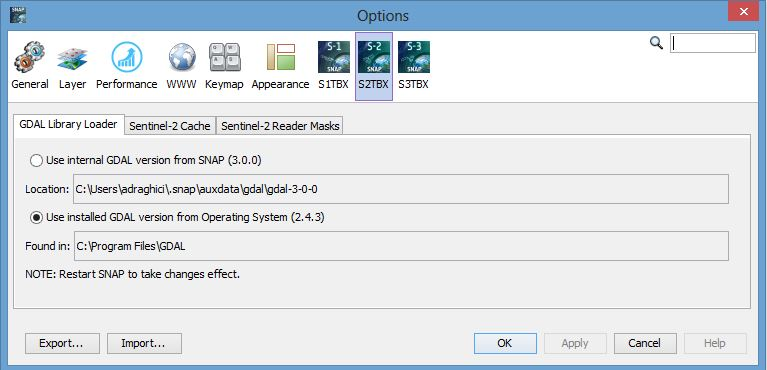
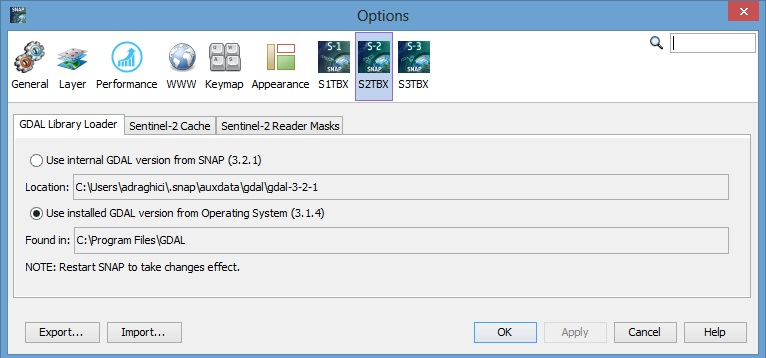
SIITBX-437: Update help pages.

Changed region(s): [[0.0, 0.0, 1.0, 1.0], [0.7206, 0.9218, 0.7807, 0.9525]]

diff --git a/s2tbx-s2msi-reader-ui/src/main/resources/org/esa/s2tbx/dataio/s2/preferences/ui/msi/docs/s2tbx/S2TBXOptions.html b/s2tbx-s2msi-reader-ui/src/main/resources/org/esa/s2tbx/dataio/s2/preferences/ui/msi/docs/s2tbx/S2TBXOptions.html
@@ -37,7 +37,7 @@
 <h4>GDAL Library Loader configuration</h4>
 
 <p>
-    It is possible to configure the GDAL library loader to load the installed GDAL distribution from the operating system or the internal GDAL distribution within SNAP (version 3.0.0).
+    It is possible to configure the GDAL library loader to load the installed GDAL distribution from the operating system or the internal GDAL distribution within SNAP (version 3.2.1).
 </p>
 
 <img src="../images/gdal_loader_config.jpg" border=0/>
@@ -50,13 +50,13 @@
 <h5>Compatible versions</h5>
 
 <p><br/>
-    - Windows x86 (32 bit): from GDAL 2.1.X to GDAL 3.0.X
+    - Windows x86 (32 bit): from GDAL 2.1.X to GDAL 3.2.X
     <br/>
-    - Windows x64 (64 bit): from GDAL 2.1.X to GDAL 3.0.X
+    - Windows x64 (64 bit): from GDAL 2.1.X to GDAL 3.2.X
     <br/>
-    - Linux x64 (64 bit): from GDAL 2.0.X to GDAL 3.0.X
+    - Linux x64 (64 bit): from GDAL 2.0.X to GDAL 3.2.X
     <br/>
-    - MacOSX (64 bit): from GDAL 2.0.X to GDAL 3.0.X
+    - MacOSX (64 bit): from GDAL 2.0.X to GDAL 3.2.X
     <br/>
 </p>
 

diff --git a/s2tbx-gdal-reader/src/main/resources/org/esa/s2tbx/dataio/gdal/reader/docs/gdal/GDALReader.html b/s2tbx-gdal-reader/src/main/resources/org/esa/s2tbx/dataio/gdal/reader/docs/gdal/GDALReader.html
@@ -73,7 +73,7 @@
        Vexcel MFF Raster products (*.hdr)
     </p>
 	<p>
-        The supported GDAL library versions are listed <a href="nbdocs://org.esa.s2tbx.s2tbx.s2msi.reader.ui/org/esa/s2tbx/dataio/s2/preferences/ui/msi/docs/s2tbx/S2TBXOptions.html">here</a>. If this library is already installed, then it is used; otherwise the application will use the internal distribution (3.0.0).
+        The supported GDAL library versions are listed <a href="nbdocs://org.esa.s2tbx.s2tbx.s2msi.reader.ui/org/esa/s2tbx/dataio/s2/preferences/ui/msi/docs/s2tbx/S2TBXOptions.html">here</a>. If this library is already installed, then it is used; otherwise the application will use the internal distribution (3.2.1).
 	   This functionality is available on machines with the Microsoft Windows, Linux and Mac OSX operating system.
     </p>
     <p>For more details please see: <a href="http://www.gdal.org/">GDAL - Geospatial Data Abstraction Library</a></p>

diff --git a/s2tbx-gdal-writer/src/main/resources/org/esa/s2tbx/dataio/gdal/writer/docs/gdal/GDALWriter.html b/s2tbx-gdal-writer/src/main/resources/org/esa/s2tbx/dataio/gdal/writer/docs/gdal/GDALWriter.html
@@ -126,7 +126,7 @@
     </table>
 
     <p>
-        The supported GDAL library versions are listed <a href="nbdocs://org.esa.s2tbx.s2tbx.s2msi.reader.ui/org/esa/s2tbx/dataio/s2/preferences/ui/msi/docs/s2tbx/S2TBXOptions.html">here</a>. If this library is already installed, then it is used; otherwise the application will use the internal distribution (3.0.0).
+        The supported GDAL library versions are listed <a href="nbdocs://org.esa.s2tbx.s2tbx.s2msi.reader.ui/org/esa/s2tbx/dataio/s2/preferences/ui/msi/docs/s2tbx/S2TBXOptions.html">here</a>. If this library is already installed, then it is used; otherwise the application will use the internal distribution (3.2.1).
         This functionality is available on machines with the Microsoft Windows, Linux and Mac OSX operating system.
     </p>	
     <p>For more details please see: <a href="http://www.gdal.org/">GDAL - Geospatial Data Abstraction Library</a></p>
